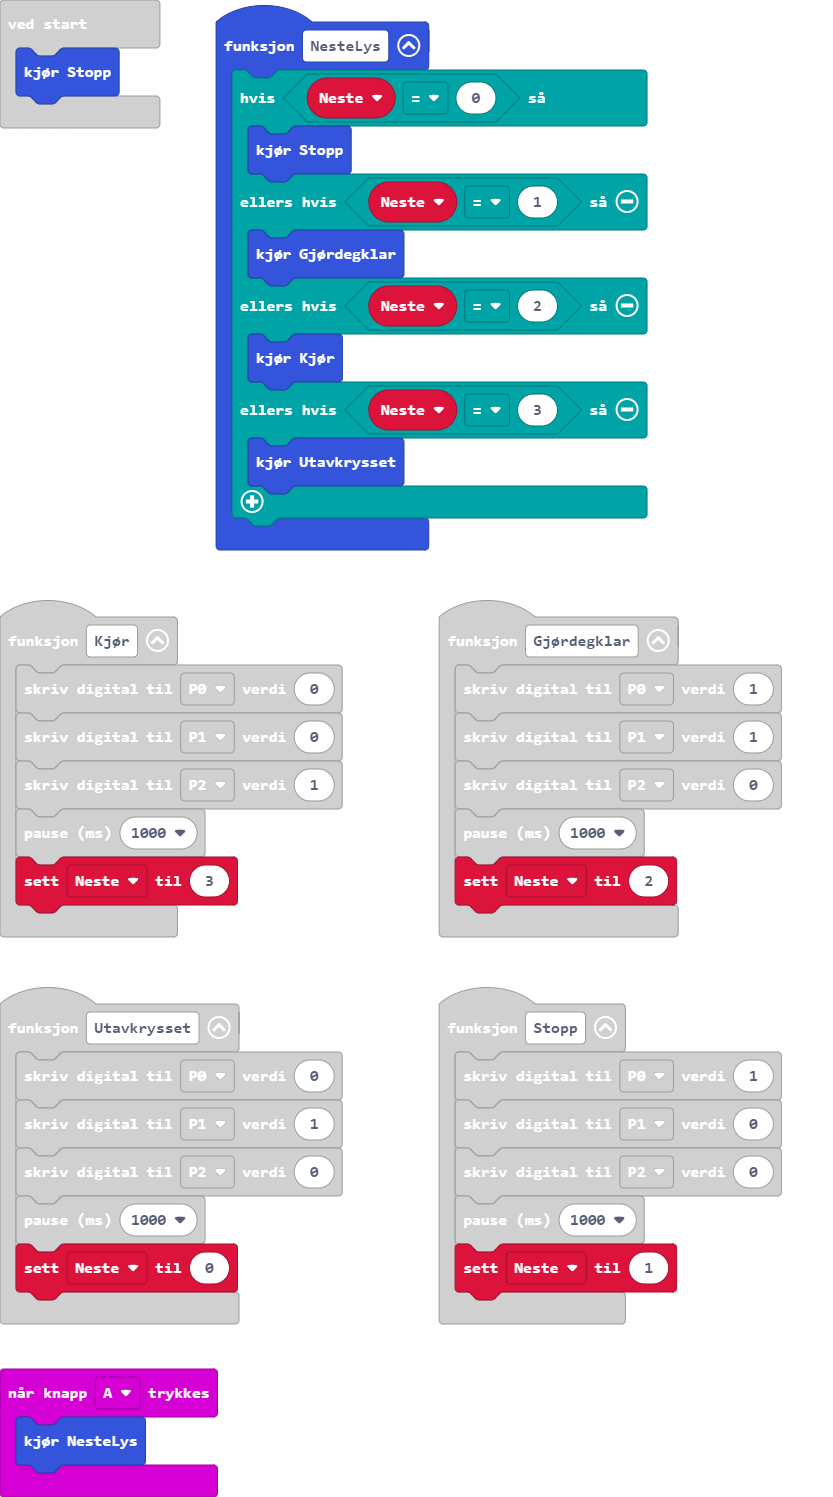
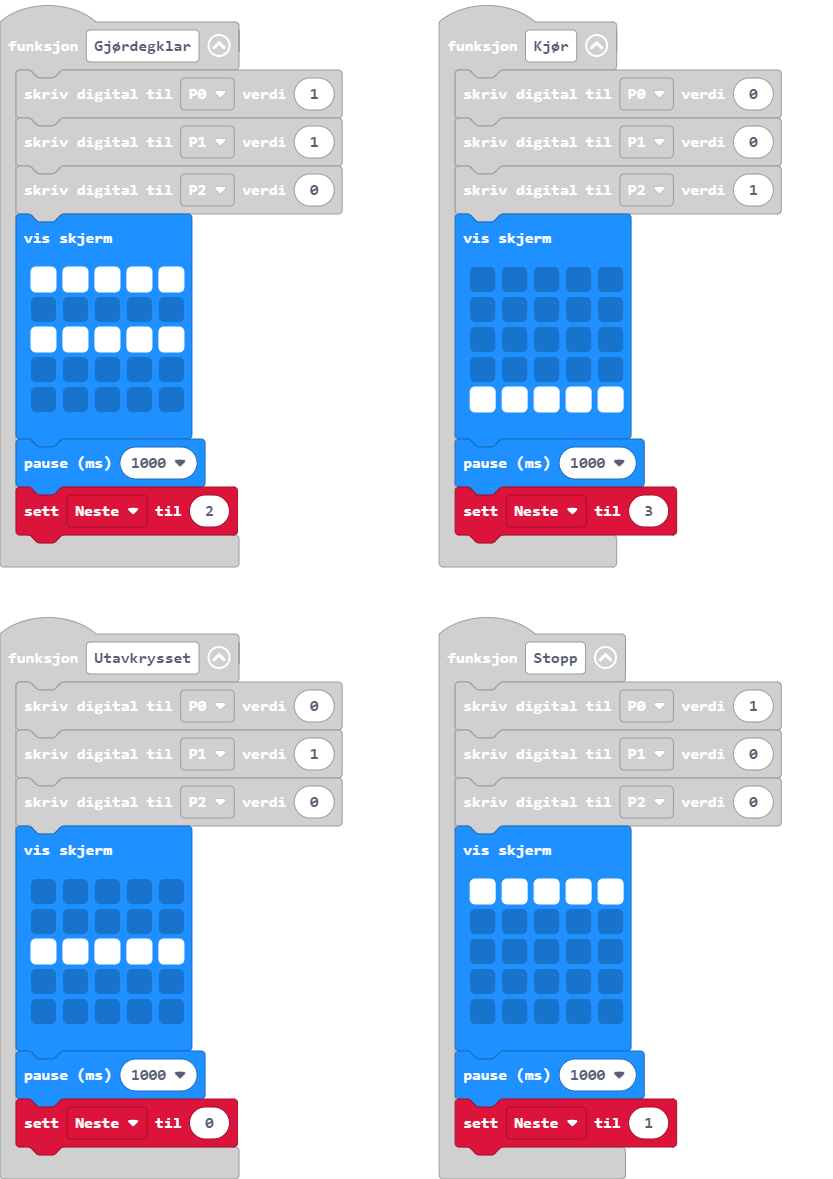
Viser lys på skjerm

diff --git a/main.ts b/main.ts
@@ -2,6 +2,13 @@ function Kjør () {
     pins.digitalWritePin(DigitalPin.P0, 0)
     pins.digitalWritePin(DigitalPin.P1, 0)
     pins.digitalWritePin(DigitalPin.P2, 1)
+    basic.showLeds(`
+        . . . . .
+        . . . . .
+        . . . . .
+        . . . . .
+        # # # # #
+        `)
     basic.pause(1000)
     Neste = 3
 }
@@ -9,6 +16,13 @@ function Utavkrysset () {
     pins.digitalWritePin(DigitalPin.P0, 0)
     pins.digitalWritePin(DigitalPin.P1, 1)
     pins.digitalWritePin(DigitalPin.P2, 0)
+    basic.showLeds(`
+        . . . . .
+        . . . . .
+        # # # # #
+        . . . . .
+        . . . . .
+        `)
     basic.pause(1000)
     Neste = 0
 }
@@ -19,6 +33,13 @@ function Stopp () {
     pins.digitalWritePin(DigitalPin.P0, 1)
     pins.digitalWritePin(DigitalPin.P1, 0)
     pins.digitalWritePin(DigitalPin.P2, 0)
+    basic.showLeds(`
+        # # # # #
+        . . . . .
+        . . . . .
+        . . . . .
+        . . . . .
+        `)
     basic.pause(1000)
     Neste = 1
 }
@@ -26,6 +47,13 @@ function Gjørdegklar () {
     pins.digitalWritePin(DigitalPin.P0, 1)
     pins.digitalWritePin(DigitalPin.P1, 1)
     pins.digitalWritePin(DigitalPin.P2, 0)
+    basic.showLeds(`
+        # # # # #
+        . . . . .
+        # # # # #
+        . . . . .
+        . . . . .
+        `)
     basic.pause(1000)
     Neste = 2
 }
